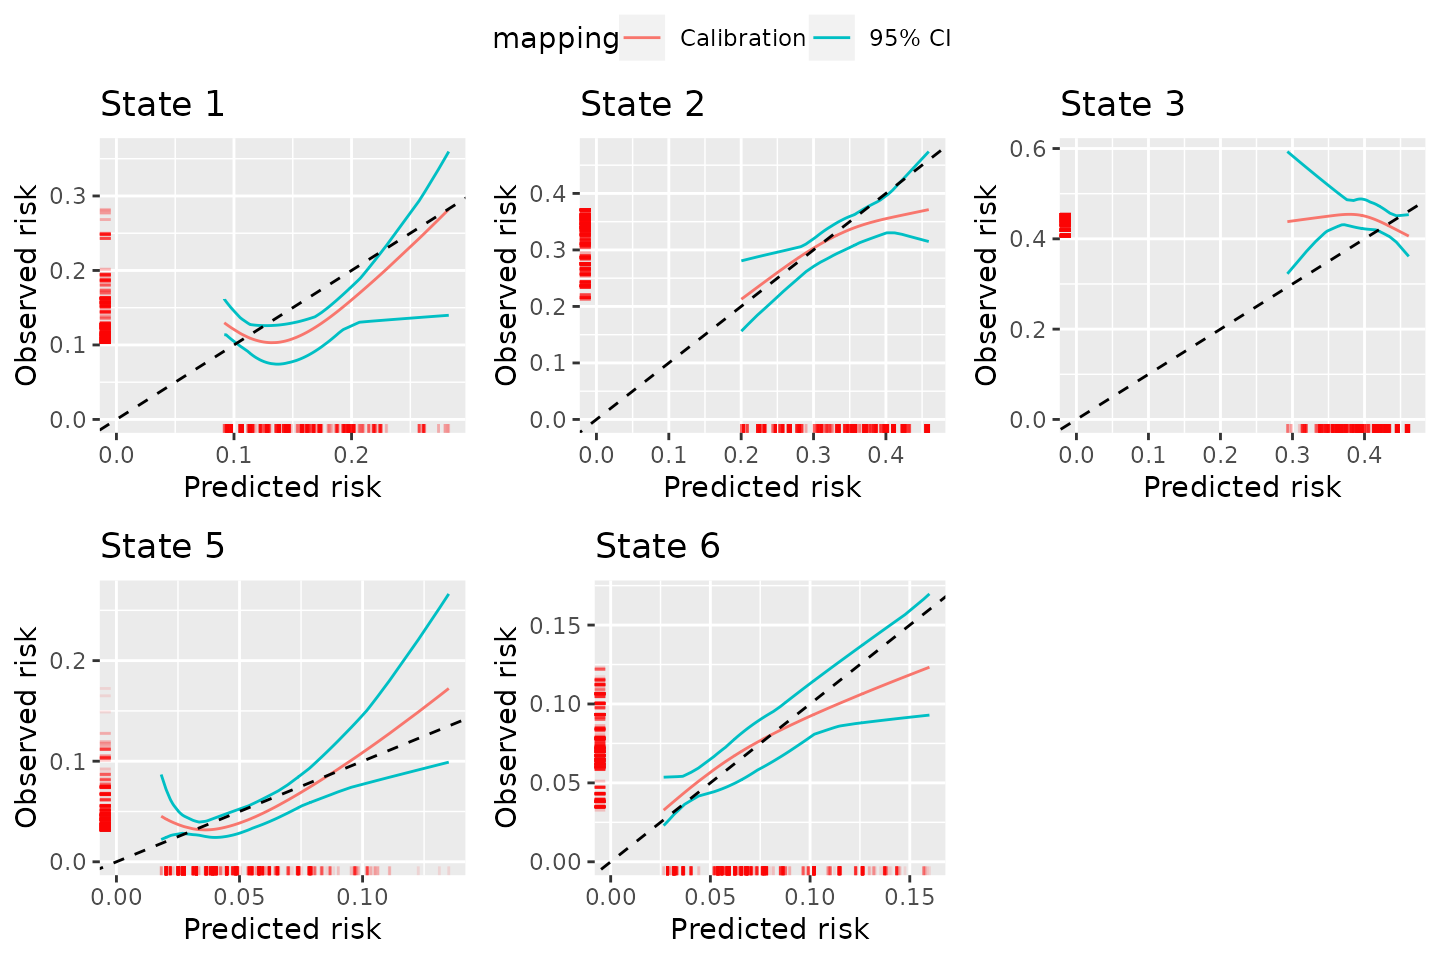
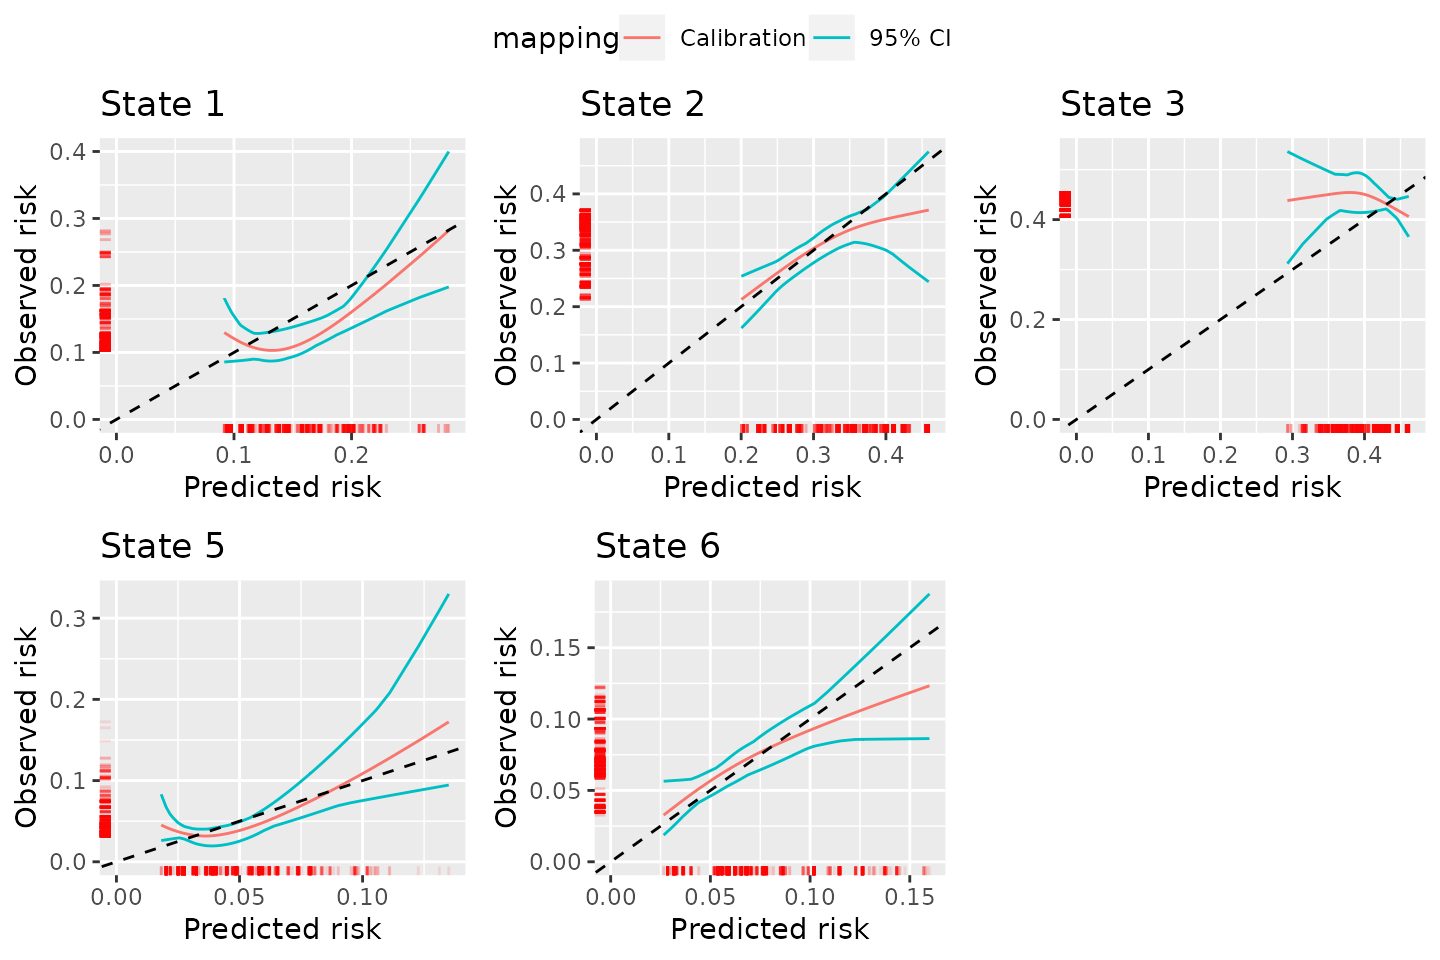
Deploying to gh-pages from @ alexpate30/calibmsm@c3bd6f5054bd99b17e6c4472229720b072f70904 🚀

diff --git a/reference/calib_blr.html b/reference/calib_blr.html
@@ -264,38 +264,38 @@ in the vignette XXXX.</p>
 <span class="r-out co"><span class="r-pr">#&gt;</span>   .. ..$ id       : int [1:1778] 2 4 5 7 10 13 14 16 18 19 ...</span>
 <span class="r-out co"><span class="r-pr">#&gt;</span>   .. ..$ pred     : num [1:1778] 0.114 0.1384 0.1233 0.0974 0.1137 ...</span>
 <span class="r-out co"><span class="r-pr">#&gt;</span>   .. ..$ obs      : num [1:1778] 0.11 0.104 0.105 0.124 0.11 ...</span>
-<span class="r-out co"><span class="r-pr">#&gt;</span>   .. ..$ obs.lower: num [1:1778] 0.0889 0.0865 0.0867 0.0847 0.0891 ...</span>
-<span class="r-out co"><span class="r-pr">#&gt;</span>   .. ..$ obs.upper: num [1:1778] 0.131 0.128 0.126 0.164 0.131 ...</span>
+<span class="r-out co"><span class="r-pr">#&gt;</span>   .. ..$ obs.lower: num [1:1778] 0.0873 0.0817 0.0861 0.0855 0.0873 ...</span>
+<span class="r-out co"><span class="r-pr">#&gt;</span>   .. ..$ obs.upper: num [1:1778] 0.132 0.126 0.124 0.163 0.132 ...</span>
 <span class="r-out co"><span class="r-pr">#&gt;</span>   ..$ state2:'data.frame':	1778 obs. of  5 variables:</span>
 <span class="r-out co"><span class="r-pr">#&gt;</span>   .. ..$ id       : int [1:1778] 2 4 5 7 10 13 14 16 18 19 ...</span>
 <span class="r-out co"><span class="r-pr">#&gt;</span>   .. ..$ pred     : num [1:1778] 0.232 0.184 0.161 0.212 0.232 ...</span>
 <span class="r-out co"><span class="r-pr">#&gt;</span>   .. ..$ obs      : num [1:1778] 0.17 0.186 0.176 0.179 0.17 ...</span>
-<span class="r-out co"><span class="r-pr">#&gt;</span>   .. ..$ obs.lower: num [1:1778] 0.123 0.153 0.143 0.146 0.123 ...</span>
-<span class="r-out co"><span class="r-pr">#&gt;</span>   .. ..$ obs.upper: num [1:1778] 0.226 0.214 0.209 0.209 0.226 ...</span>
+<span class="r-out co"><span class="r-pr">#&gt;</span>   .. ..$ obs.lower: num [1:1778] 0.123 0.157 0.143 0.148 0.123 ...</span>
+<span class="r-out co"><span class="r-pr">#&gt;</span>   .. ..$ obs.upper: num [1:1778] 0.22 0.217 0.208 0.214 0.22 ...</span>
 <span class="r-out co"><span class="r-pr">#&gt;</span>   ..$ state3:'data.frame':	1778 obs. of  5 variables:</span>
 <span class="r-out co"><span class="r-pr">#&gt;</span>   .. ..$ id       : int [1:1778] 2 4 5 7 10 13 14 16 18 19 ...</span>
 <span class="r-out co"><span class="r-pr">#&gt;</span>   .. ..$ pred     : num [1:1778] 0.0844 0.0758 0.0551 0.0615 0.0844 ...</span>
 <span class="r-out co"><span class="r-pr">#&gt;</span>   .. ..$ obs      : num [1:1778] 0.1249 0.1167 0.0919 0.1001 0.1248 ...</span>
-<span class="r-out co"><span class="r-pr">#&gt;</span>   .. ..$ obs.lower: num [1:1778] 0.0934 0.0834 0.0441 0.055 0.0933 ...</span>
-<span class="r-out co"><span class="r-pr">#&gt;</span>   .. ..$ obs.upper: num [1:1778] 0.158 0.147 0.138 0.138 0.158 ...</span>
+<span class="r-out co"><span class="r-pr">#&gt;</span>   .. ..$ obs.lower: num [1:1778] 0.0973 0.0889 0.0463 0.06 0.0973 ...</span>
+<span class="r-out co"><span class="r-pr">#&gt;</span>   .. ..$ obs.upper: num [1:1778] 0.153 0.147 0.133 0.134 0.153 ...</span>
 <span class="r-out co"><span class="r-pr">#&gt;</span>   ..$ state4:'data.frame':	1778 obs. of  5 variables:</span>
 <span class="r-out co"><span class="r-pr">#&gt;</span>   .. ..$ id       : int [1:1778] 2 4 5 7 10 13 14 16 18 19 ...</span>
 <span class="r-out co"><span class="r-pr">#&gt;</span>   .. ..$ pred     : num [1:1778] 0.233 0.218 0.183 0.221 0.233 ...</span>
 <span class="r-out co"><span class="r-pr">#&gt;</span>   .. ..$ obs      : num [1:1778] 0.243 0.224 0.185 0.228 0.243 ...</span>
-<span class="r-out co"><span class="r-pr">#&gt;</span>   .. ..$ obs.lower: num [1:1778] 0.204 0.192 0.155 0.195 0.204 ...</span>
-<span class="r-out co"><span class="r-pr">#&gt;</span>   .. ..$ obs.upper: num [1:1778] 0.282 0.26 0.219 0.264 0.281 ...</span>
+<span class="r-out co"><span class="r-pr">#&gt;</span>   .. ..$ obs.lower: num [1:1778] 0.203 0.195 0.16 0.196 0.203 ...</span>
+<span class="r-out co"><span class="r-pr">#&gt;</span>   .. ..$ obs.upper: num [1:1778] 0.28 0.258 0.214 0.262 0.28 ...</span>
 <span class="r-out co"><span class="r-pr">#&gt;</span>   ..$ state5:'data.frame':	1778 obs. of  5 variables:</span>
 <span class="r-out co"><span class="r-pr">#&gt;</span>   .. ..$ id       : int [1:1778] 2 4 5 7 10 13 14 16 18 19 ...</span>
 <span class="r-out co"><span class="r-pr">#&gt;</span>   .. ..$ pred     : num [1:1778] 0.148 0.154 0.143 0.144 0.149 ...</span>
 <span class="r-out co"><span class="r-pr">#&gt;</span>   .. ..$ obs      : num [1:1778] 0.191 0.165 0.222 0.212 0.188 ...</span>
-<span class="r-out co"><span class="r-pr">#&gt;</span>   .. ..$ obs.lower: num [1:1778] 0.16 0.145 0.179 0.174 0.158 ...</span>
-<span class="r-out co"><span class="r-pr">#&gt;</span>   .. ..$ obs.upper: num [1:1778] 0.218 0.188 0.259 0.245 0.214 ...</span>
+<span class="r-out co"><span class="r-pr">#&gt;</span>   .. ..$ obs.lower: num [1:1778] 0.164 0.146 0.18 0.174 0.162 ...</span>
+<span class="r-out co"><span class="r-pr">#&gt;</span>   .. ..$ obs.upper: num [1:1778] 0.213 0.184 0.266 0.25 0.21 ...</span>
 <span class="r-out co"><span class="r-pr">#&gt;</span>   ..$ state6:'data.frame':	1778 obs. of  5 variables:</span>
 <span class="r-out co"><span class="r-pr">#&gt;</span>   .. ..$ id       : int [1:1778] 2 4 5 7 10 13 14 16 18 19 ...</span>
 <span class="r-out co"><span class="r-pr">#&gt;</span>   .. ..$ pred     : num [1:1778] 0.189 0.23 0.335 0.264 0.189 ...</span>
 <span class="r-out co"><span class="r-pr">#&gt;</span>   .. ..$ obs      : num [1:1778] 0.207 0.254 0.316 0.28 0.207 ...</span>
-<span class="r-out co"><span class="r-pr">#&gt;</span>   .. ..$ obs.lower: num [1:1778] 0.185 0.229 0.277 0.255 0.185 ...</span>
-<span class="r-out co"><span class="r-pr">#&gt;</span>   .. ..$ obs.upper: num [1:1778] 0.23 0.28 0.355 0.307 0.229 ...</span>
+<span class="r-out co"><span class="r-pr">#&gt;</span>   .. ..$ obs.lower: num [1:1778] 0.185 0.23 0.28 0.256 0.185 ...</span>
+<span class="r-out co"><span class="r-pr">#&gt;</span>   .. ..$ obs.upper: num [1:1778] 0.229 0.279 0.358 0.306 0.229 ...</span>
 <span class="r-out co"><span class="r-pr">#&gt;</span>  $ metadata:List of 8</span>
 <span class="r-out co"><span class="r-pr">#&gt;</span>   ..$ valid.transitions   : num [1:6] 1 2 3 4 5 6</span>
 <span class="r-out co"><span class="r-pr">#&gt;</span>   ..$ assessed.transitions: num [1:6] 1 2 3 4 5 6</span>

diff --git a/articles/Evaluation-of-estimation-of-IPCWs.html b/articles/Evaluation-of-estimation-of-IPCWs.html
@@ -77,10 +77,9 @@
 <h2 id="introduction">Introduction<a class="anchor" aria-label="anchor" href="#introduction"></a>
 </h2>
 <p>When assessing calibration using the BLR-IPCW and pseudo-value
-approaches (see the <strong>Overview</strong> vignette), we found
-predominately good agreement between the calibration curves except when
-assessing the calibration of the transition probabilities from state
-<span class="math inline">\(j = 1\)</span> into state <span class="math inline">\(k = 3\)</span>. Given we do not know the true
+approaches (see the <em>Overview</em> vignette), we found predominately
+good agreement between the calibration curves except when assessing the
+calibration of the transition probabilities from state <span class="math inline">\(j = 1\)</span> into state <span class="math inline">\(k = 3\)</span>. Given we do not know the true
 calibration of these transition probabilities we cannot say for sure
 which calibration curve is correct. However, we can take steps to test
 the assumptions made by each of the methods, which may help guide which
@@ -99,10 +98,10 @@ transplant more recently have a shorter administrative censoring time,
 given they have a shorter maximum follow up.</p>
 <p>When calculating pseudo-values, we can completely remove the impact
 of this variable by calculating pseudo-values within subgroups defined
-by this variable. In the <strong>Overview</strong> vignette, we also
-further group patients by their predicted risk in a further three
-subgroups. We therefore believe the assumption for the pseudo-value
-approach is likely to hold.</p>
+by this variable. In the <em>Overview</em> vignette, we also further
+group patients by their predicted risk in a further three subgroups. We
+therefore believe the assumption for the pseudo-value approach is likely
+to hold.</p>
 <p>When implementing the BLR-IPCW approach, the most important step is
 estimation of the weights. In <code>calibmsm</code> this is done
 internally using a cox proportional hazards model. We fit this model to
@@ -189,10 +188,10 @@ this model in practice, we would recommend assessing calibration using
 the pseudo-value approach. This is not a fundamental problem with the
 BLR-IPCW approach, but an issue with estimating the IPCWs, which if
 estimated correctly should result in unbiased calibration curves. As
-suggested in the <strong>Overview</strong> vignette, more simulation
-studies are required to rigorously test the robustness of each method
-when their assumptions do not hold, and in what scenario each method is
-most likely to give biased calibration curves.</p>
+suggested in the <em>Overview</em> vignette, more simulation studies are
+required to rigorously test the robustness of each method when their
+assumptions do not hold, and in what scenario each method is most likely
+to give biased calibration curves.</p>
 <p>This vignette has also highlighted the limitations of using a cox
 proportional hazards model to estimate the IPCWs. The
 <code>calibmsm</code> package has been developed to provide a set of
@@ -201,13 +200,12 @@ focused package for estimating IPCWs. We urge users to develop better
 models for estimating the IPCWs and specify them using the
 <code>weights</code> argument. A process for estimating confidence
 intervals using bootstrapping when manually estimating the IPCWs is
-exemplified in the vignette
-<strong>BLR-IPCW-manual-boostrap</strong>.</p>
+exemplified in the vignette <em>BLR-IPCW-manual-boostrap</em>.</p>
 <p>One final point, it is peculiar that this issue only causes
 discordance between the calibration plots out of state <span class="math inline">\(j = 0\)</span> into state <span class="math inline">\(k = 3\)</span>, whereas for all other states <span class="math inline">\(k\)</span> there is closer agreement between the
 BLR-IPCW and pseudo-value calibration curves (see Figures 2 and 3 in the
-<strong>Overview</strong> vignette). We hypothesise that this may be due
-to the fact no individuals move into state <span class="math inline">\(3\)</span> after <span class="math inline">\(100\)</span> days. We believe this is likely due
+<em>Overview</em> vignette). We hypothesise that this may be due to the
+fact no individuals move into state <span class="math inline">\(3\)</span> after <span class="math inline">\(100\)</span> days. We believe this is likely due
 to the definition of an adverse event needing to happen within <span class="math inline">\(100\)</span> days post transplant, but cannot be
 sure as the authors of this package had no involvement in data
 collection. It is possible that the application of incorrectly estimated

diff --git a/articles/Comparison-with-graphical-calibration-curves-in-competing-risks-setting.html b/articles/Comparison-with-graphical-calibration-curves-in-competing-risks-setting.html
@@ -119,9 +119,9 @@ that the <code>ebmtcal</code> dataset can still be used as the argument
 for <code>data.raw</code>, but a new dataset for the
 <code>data.mstate</code> argument is required, which reflects the fact
 this is now a competing risks data structure. Please refer to the
-<strong>Overview</strong> vignette for more details about how these
-datasets should be formatted. We assess calibration at 5 years (1826
-days) for all methods.</p>
+<em>Overview</em> vignette for more details about how these datasets
+should be formatted. We assess calibration at 5 years (1826 days) for
+all methods.</p>
 <div class="sourceCode" id="cb1"><pre class="downlit sourceCode r">
 <code class="sourceCode R"><span><span class="kw"><a href="https://rdrr.io/r/base/library.html" class="external-link">library</a></span><span class="op">(</span><span class="va"><a href="https://alexpate30.github.io/calibmsm/">calibmsm</a></span><span class="op">)</span></span>
 <span></span>
@@ -223,11 +223,11 @@ the pseudo-value approach, implemented through
 <span>                 n.pctls <span class="op">=</span> <span class="fl">9</span>,</span>
 <span>                 CI <span class="op">=</span> <span class="fl">95</span>,</span>
 <span>                 CI.type <span class="op">=</span> <span class="st">"parametric"</span><span class="op">)</span></span>
-<span><span class="co">#&gt; [1] "Calculate pseudo values for state =  1 2023-07-25 16:53:43.926396"</span></span>
-<span><span class="co">#&gt; [1] "Calculate pseudo values for state =  2 2023-07-25 16:57:44.012418"</span></span>
-<span><span class="co">#&gt; [1] "Calculate pseudo values for state =  3 2023-07-25 17:01:44.342974"</span></span>
-<span><span class="co">#&gt; [1] "Calculate pseudo values for state =  5 2023-07-25 17:05:47.313907"</span></span>
-<span><span class="co">#&gt; [1] "Calculate pseudo values for state =  6 2023-07-25 17:09:37.099662"</span></span>
+<span><span class="co">#&gt; [1] "Calculate pseudo values for state =  1 2023-07-25 17:30:06.201427"</span></span>
+<span><span class="co">#&gt; [1] "Calculate pseudo values for state =  2 2023-07-25 17:34:43.727005"</span></span>
+<span><span class="co">#&gt; [1] "Calculate pseudo values for state =  3 2023-07-25 17:39:14.478007"</span></span>
+<span><span class="co">#&gt; [1] "Calculate pseudo values for state =  5 2023-07-25 17:43:41.61289"</span></span>
+<span><span class="co">#&gt; [1] "Calculate pseudo values for state =  6 2023-07-25 17:48:05.58268"</span></span>
 <span></span>
 <span><span class="co">### Turn into plot and print</span></span>
 <span><span class="va">plot.calibmsm.pv</span> <span class="op">&lt;-</span> <span class="fu"><a href="https://rdrr.io/r/graphics/plot.default.html" class="external-link">plot</a></span><span class="op">(</span><span class="va">dat.calib.pv</span>, combine <span class="op">=</span> <span class="cn">TRUE</span>, nrow <span class="op">=</span> <span class="fl">2</span>, ncol <span class="op">=</span> <span class="fl">3</span><span class="op">)</span></span></code></pre></div>
@@ -281,7 +281,7 @@ transition probabilities into all other states is very similar
 irrespecive of the method used to assess calibration. This is with the
 exception of the calibration of the transition probabilities into state
 3 when using the BLR-IPCW approach. Possible reasons for this are
-discussed in the <strong>Overview</strong> vignette.</p>
+discussed in the <em>Overview</em> vignette.</p>
 <div id="refs" class="references csl-bib-body hanging-indent">
 <div id="ref-Austin2022" class="csl-entry">
 Austin, Peter C., Hein Putter, Daniele Giardiello, and David van

diff --git a/articles/BLR-IPCW-manual-bootstrap-with-custom-function-for-estimating-the-weights.html b/articles/BLR-IPCW-manual-bootstrap-with-custom-function-for-estimating-the-weights.html
@@ -84,9 +84,8 @@ of censoring weights. We start by reminding ourselves of the EBMT <span class="c
 transition probabilities from a multistate model out of state
 <code>j = 1</code> made a time <code>s = 0</code> (<code>tps0</code>).
 We also set the time at which we want to evaluate the transition
-probabilities <code>t</code>. Please refer to the
-<strong>Overview</strong> vignette for a more detailed description of
-this data.</p>
+probabilities <code>t</code>. Please refer to the <em>Overview</em>
+vignette for a more detailed description of this data.</p>
 <div class="sourceCode" id="cb1"><pre class="downlit sourceCode r">
 <code class="sourceCode R"><span><span class="fu"><a href="https://rdrr.io/r/base/Random.html" class="external-link">set.seed</a></span><span class="op">(</span><span class="fl">101</span><span class="op">)</span></span>
 <span></span>
@@ -145,7 +144,7 @@ procedure<a class="anchor" aria-label="anchor" href="#confidence-intervals-for-b
 <p>We now remind ourselves of the procedure for generating a confidence
 interval, and estimate a confidence interval for a BLR-IPCW calibration
 curve using the internal bootstrapping procedure, as in done in the
-<strong>Overview</strong> vignette.</p>
+<em>Overview</em> vignette.</p>
 <ol style="list-style-type: decimal">
 <li>Resample validation dataset with replacement</li>
 <li>Landmark the dataset for assessment of calibration</li>
@@ -194,8 +193,8 @@ model (Cox model) or the functional form of the predictor variables
 variables are assumed to have linear effects on the hazard, and there
 are no interaction terms. We encourage users to explore their data and
 produce a more suitable model to estimate the weights. Please see the
-<strong>Overview</strong> vignette for a definition of the weights and
-how to estimate them.</p>
+<em>Overview</em> vignette for a definition of the weights and how to
+estimate them.</p>
 <p>The internal bootstrapping procedure can then be utilised with your
 own function for estimating the weights, specified through the
 <code>w.function</code> argument. This function must have the same
